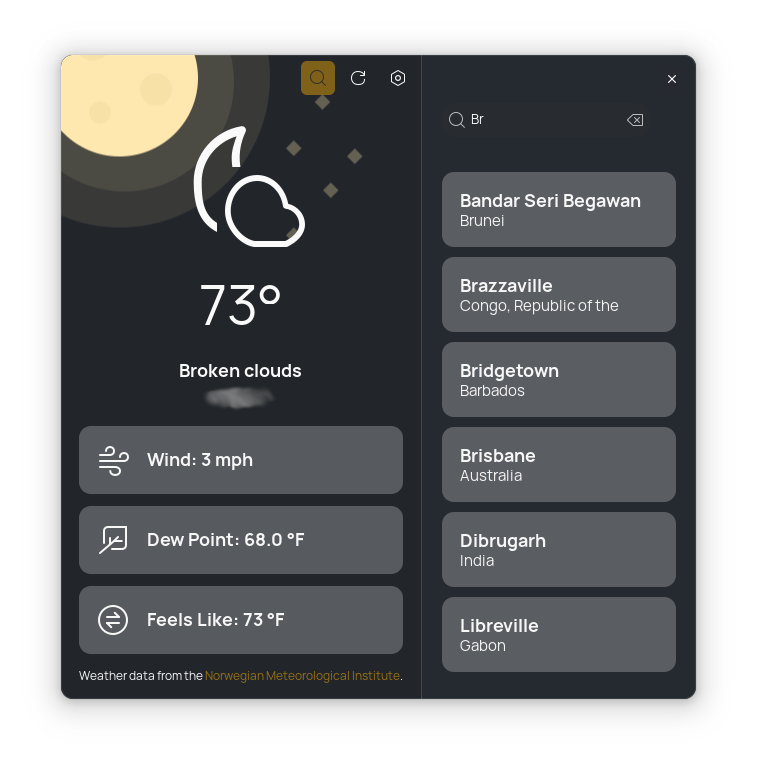
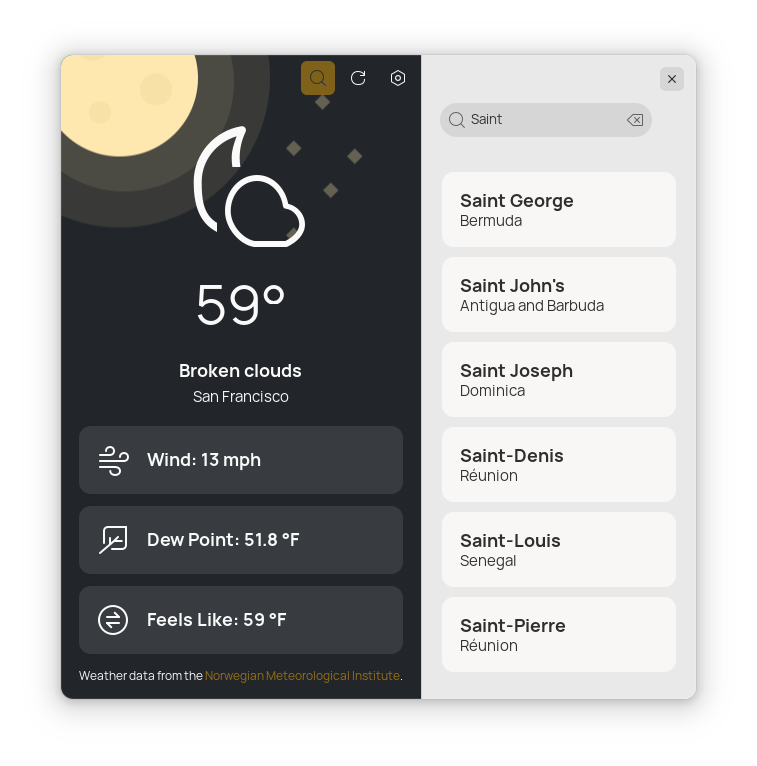
Impl search

diff --git a/data/style.css b/data/style.css
@@ -1,8 +1,3 @@
-.block {
-  background: alpha(@view_bg_color, 0.25);
-  color: @view_bg_color;
-}
-
 .content-list row {
   background: none;
 }
@@ -11,7 +6,7 @@
 }
 
 .sblock {
-  background: alpha(@view_fg_color, 0.25);
+  background: alpha(@view_fg_color, 0.1);
   border-radius: 999px;
 }
 
